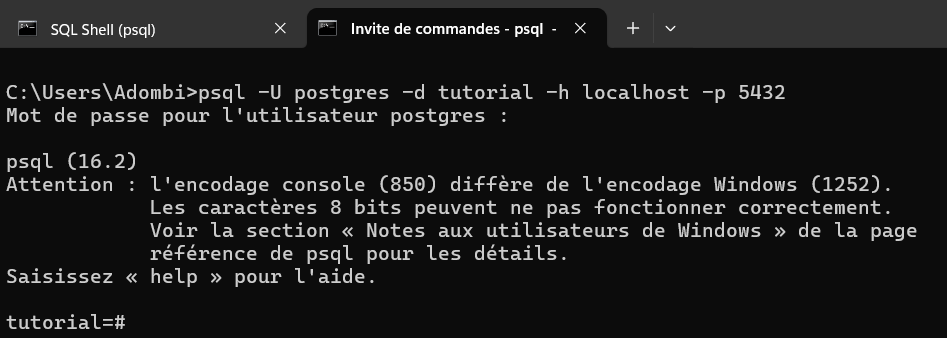
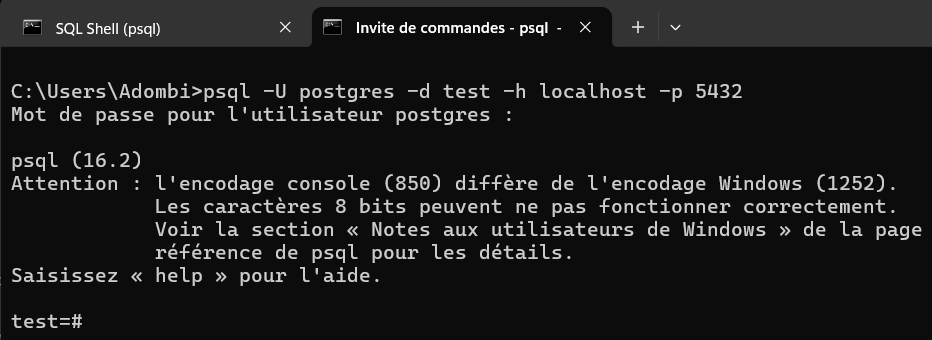
Create table: part 1

diff --git a/001-Tutorial/README.md b/001-Tutorial/README.md
@@ -1,4 +1,4 @@
-# What is a Database
+# 1. What is a Database
 
 * Postgre vs SQL
 
@@ -16,24 +16,24 @@ A relational DB is a relation between one or more tables
 
 ![alt text](images/introduction/image-2.png)
 
-# How to connect to DB server
+# 2. How to connect to DB server
 
 Locally, our computer acts as a DB server. Below are different options to connect to the DB server (our computer):
 
 ![alt text](images/introduction/image-3.png)
 
-## GUI Clients
+## 2.1. GUI Clients
 Below are some clients that can be used to connect to our DB server:
 
 * DataGrip
 * Postico
 * pg Admin 4 (for Windows users)
 
-## Terminal / Command Line (CLI)
+## 2.2. Terminal / Command Line (CLI)
 
 In the Windows start-up menu, search for "SQL Shell (psql)".
 
-### Connection to a database using SQL Shell (psql)
+### 2.2.1. Connection to a database using SQL Shell (psql)
 
 * **Connection**
 ![alt text](images/introduction/image-4.png)
@@ -61,12 +61,42 @@ Database creation
 
 ![alt text](images/introduction/image-8.png)
 
-### Connect to a database (here: tutorial) using Windows CMD (or Powershell)
+### 2.2.2. Connect to a database (here: test) using Windows CMD (or Powershell)
 
 From now, we going to use Windows Command Promt (CMD) or Powershell. Note that the above CLI can be executed by CMD.
 
 ![alt text](images/introduction/image-9.png)
 
+To switch to another database, you can type:
+```
+\c database_name
+```
+
+![alt text](images/introduction/image-10.png)
+
+Note: In CMD, you can type `psql --help` to get some useful info.
 
 
+### 2.2.3. A very dangerous command: DROP command
 
+Before using it, be sure you have a backup of it
+
+
+## 3. CRUD operations
+
+### 3.1. CREATE A TABLE
+
+![alt text](images/CRUD/CREATE/image-1.png)
+
+* Complete list of data type in PostgreSQL
+
+https://www.postgresql.org/docs/current/datatype.html
+
+
+* Create a table without constraints
+
+![alt text](images/CRUD/CREATE/image-2.png)
+
+and list tables using: \d
+
+![alt text](images/CRUD/CREATE/image-3.png)
